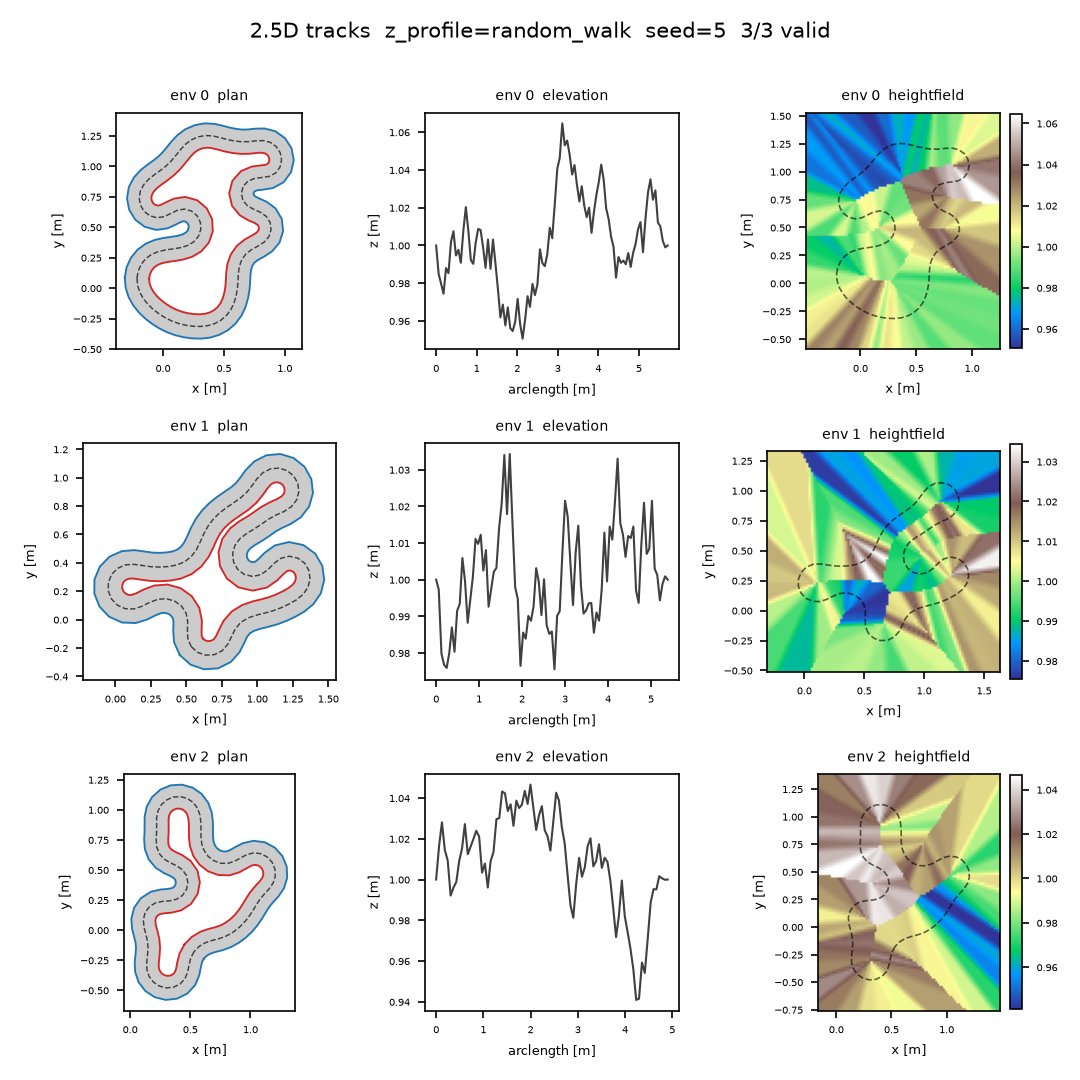
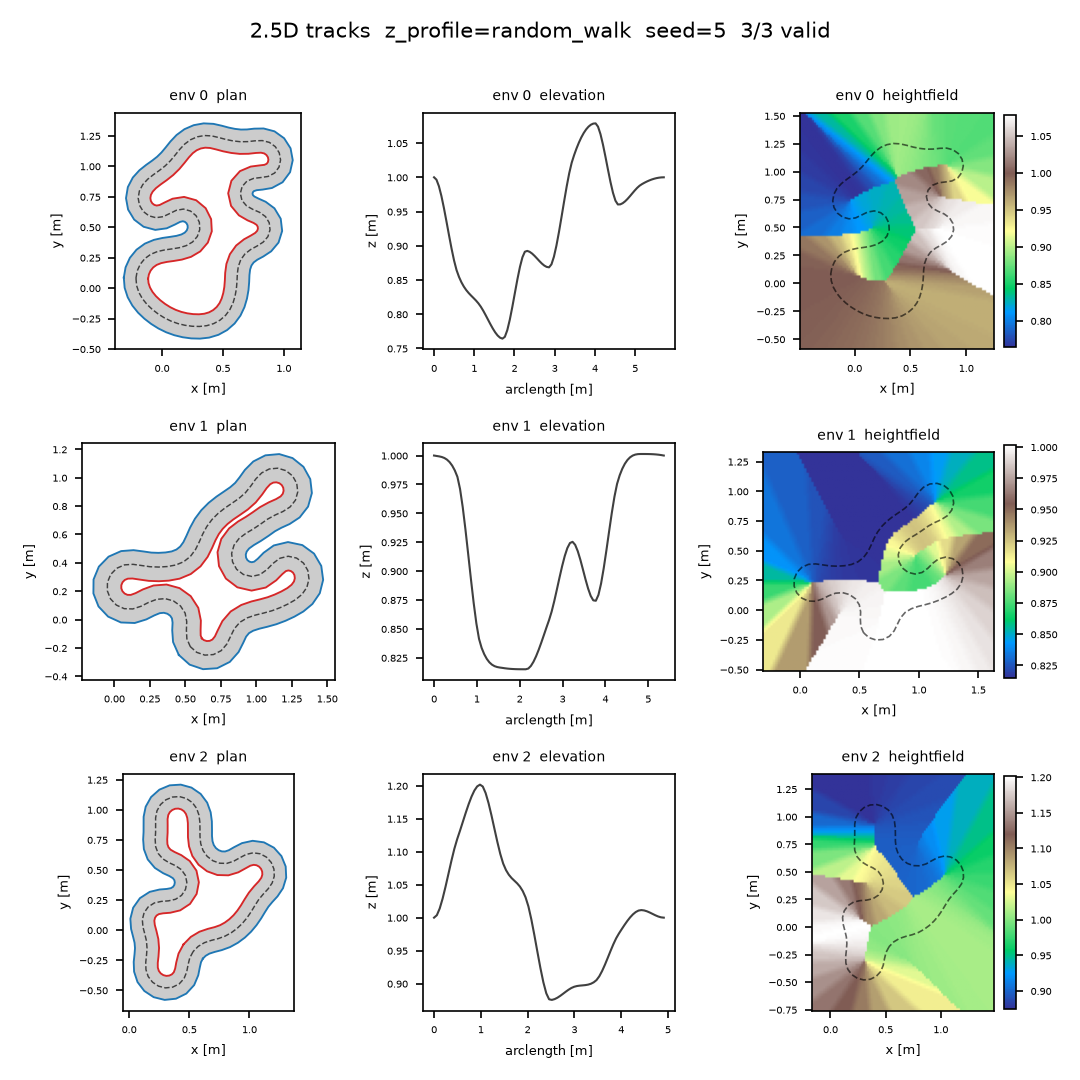
docs+viz: profile-comparison figure, knot smoothness guidance, re-shot hero
Add viz/plot_z_profiles.py comparing flat/uniform/random_walk/noise on the
same seeded plan-view layout, re-shoot docs/_static/tracks-25d.png now that
elevation is smooth rolling terrain instead of a per-point washboard, and
rework docs/tracks-25d.rst: purpose-first per-profile descriptions, a
z_control_points knobs-table row, a Smoothness section stating the exact
[z_min, z_max] bounds guarantee with no post-clamp, and the honest grade
caveat that z_max_step shapes the walk at the knots (now per knot interval,
not per resampled point — an intentional, user-visible change) while a
monotone-cubic segment can overshoot up to 3x its knot-to-knot secant, so
z_valid_grade is what actually gates realized per-point steepness.

Also tighten test_xpbd_solves_in_2d_elevation_applies_after's vacuity guard
(tests/test_track_3d.py): assert per-env z std on each env's real points
(sliced to count[e]) rather than the whole-batch std, which was dominated by
the zero-padding/real-elevation contrast and would still pass under constant
per-env elevation.

Claude-Session: https://claude.ai/code/session_019ABYQDYMWzWSk9H6aJ1x8p

diff --git a/viz/plot_z_profiles.py b/viz/plot_z_profiles.py
@@ -1,0 +1,173 @@
+#!/usr/bin/env python3
+"""Compare the four ``z_profile`` altitude models on the SAME track layout.
+
+Generates one track batch per profile (``flat``, ``uniform``, ``random_walk``,
+``noise``) with an identical seed, identical Z knobs, and identical plan-view
+layout (the XY relaxation runs before elevation exists, so it is bit-identical
+across profiles — see :doc:`/tracks-25d`'s "Why 2.5D" section). Draws a
+2-column grid, one row per profile:
+
+- plan view: outer/inner borders for context, centerline colored by z.
+- elevation profile: arclength vs. centerline z.
+
+Headless (Agg backend); PNG lands in ``viz/out/`` by default. Run directly:
+
+    .venv/bin/python -m viz.plot_z_profiles
+    .venv/bin/python -m viz.plot_z_profiles --envs 3 --seed 5
+    .venv/bin/python -m viz.plot_z_profiles --out docs/_static/z-profiles.png
+"""
+from __future__ import annotations
+
+import argparse
+import os
+import sys
+
+# Make the flat "track_gen" package importable regardless of cwd (this file lives at
+# <pkg_parent>/viz/plot_z_profiles.py, so the package parent is two levels up).
+_PKG_PARENT = os.path.dirname(os.path.dirname(os.path.abspath(__file__)))
+if _PKG_PARENT not in sys.path:
+    sys.path.insert(0, _PKG_PARENT)
+
+import matplotlib
+
+matplotlib.use("Agg")  # headless; must precede the pyplot import
+
+import matplotlib.pyplot as plt
+import numpy as np
+import torch
+
+import warp as wp
+
+from track_gen import PerEnvSeededRNG
+from track_gen._src.track_generator import TrackGenerator
+from track_gen._src.types import TrackGenConfig
+
+OUT_DIR = os.path.join(os.path.dirname(os.path.abspath(__file__)), "out")
+
+# Common Z knobs shared by every profile row; each profile only reads the
+# subset of these it actually uses (see docs/tracks-25d.rst's knobs table).
+Z_BASE = 1.0
+Z_MIN = 0.5
+Z_MAX = 1.5
+Z_MAX_STEP = 0.3
+Z_NOISE_AMPLITUDE = 0.4
+Z_CONTROL_POINTS = 10
+
+PROFILES = [
+    ("flat", "z_base=1.0"),
+    ("uniform", "z_min=0.5, z_max=1.5"),
+    ("random_walk", "z_max_step=0.3"),
+    ("noise", "z_noise_amplitude=0.4"),
+]
+
+
+def make_rng(num_envs: int, seed: int, device: str) -> PerEnvSeededRNG:
+    """Per-env seeded RNG, mirroring plot_tracks_3d.py."""
+    wp.init()
+    seeds = (torch.arange(num_envs, dtype=torch.int32) + seed).to(device)
+    ids = torch.arange(num_envs, dtype=torch.int32).to(device)
+    wp_seeds = wp.from_torch(seeds, dtype=wp.int32)
+    wp_ids = wp.from_torch(ids, dtype=wp.int32)
+    rng = PerEnvSeededRNG(seeds=wp_seeds, num_envs=num_envs, device=device)
+    rng.set_seeds_warp(wp_seeds, ids=wp_ids)
+    return rng
+
+
+def draw_row(ax_plan, ax_elev, *, profile: str, knobs: str, outer, center,
+             inner, arclen, vmin: float, vmax: float) -> None:
+    """Draw one profile's plan view (colored by z) and elevation profile.
+
+    ``outer``/``center``/``inner``/``arclen`` are already-sliced ``[m, 3]`` /
+    ``[m]`` numpy arrays for this env (real points only).
+    """
+    ox, oy = np.append(outer[:, 0], outer[0, 0]), np.append(outer[:, 1], outer[0, 1])
+    cx, cy, cz = center[:, 0], center[:, 1], center[:, 2]
+    cxl, cyl, czl = np.append(cx, cx[0]), np.append(cy, cy[0]), np.append(cz, cz[0])
+    ix, iy = np.append(inner[:, 0], inner[0, 0]), np.append(inner[:, 1], inner[0, 1])
+
+    # Plan view: outer/inner borders for context, centerline colored by z.
+    ax_plan.plot(ox, oy, color="0.75", lw=0.7, zorder=1)
+    ax_plan.plot(ix, iy, color="0.75", lw=0.7, zorder=1)
+    sc = ax_plan.scatter(cxl, cyl, c=czl, cmap="terrain", vmin=vmin, vmax=vmax,
+                         s=5, zorder=3)
+    ax_plan.set_aspect("equal")
+    ax_plan.set_xlabel("x [m]", fontsize=6)
+    ax_plan.set_ylabel("y [m]", fontsize=6)
+    ax_plan.tick_params(labelsize=5)
+    ax_plan.set_title(f"{profile}  ({knobs})  plan", fontsize=6.5)
+    cb = plt.colorbar(sc, ax=ax_plan, fraction=0.046, pad=0.04)
+    cb.ax.tick_params(labelsize=5)
+    cb.set_label("z [m]", fontsize=6)
+
+    # Elevation profile: arclength vs centerline z.
+    s = np.append(arclen, arclen[-1] + np.linalg.norm(center[0] - center[-1]))
+    ax_elev.plot(s, czl, color="0.25", lw=1.0, zorder=2)
+    ax_elev.set_ylim(vmin - 0.05 * (vmax - vmin), vmax + 0.05 * (vmax - vmin))
+    ax_elev.set_xlabel("arclength [m]", fontsize=6)
+    ax_elev.set_ylabel("z [m]", fontsize=6)
+    ax_elev.tick_params(labelsize=5)
+    ax_elev.set_title(f"{profile}  ({knobs})  elevation", fontsize=6.5)
+
+
+def render(envs=6, seed=0, out=None, dpi=150, cell_in=2.6, device="cpu"):
+    """Generate one track batch per profile on ``device`` and save the grid PNG."""
+    os.makedirs(OUT_DIR, exist_ok=True)
+    if out is None:
+        out = os.path.join(OUT_DIR, "z_profiles.png")
+
+    fig, axes = plt.subplots(len(PROFILES), 2,
+                             figsize=(2 * cell_in, len(PROFILES) * cell_in),
+                             squeeze=False)
+
+    first_env = None
+    for row, (profile, knobs) in enumerate(PROFILES):
+        config = TrackGenConfig(device=device, num_envs=envs, z_profile=profile,
+                                z_base=Z_BASE, z_min=Z_MIN, z_max=Z_MAX,
+                                z_max_step=Z_MAX_STEP,
+                                z_noise_amplitude=Z_NOISE_AMPLITUDE,
+                                z_control_points=Z_CONTROL_POINTS)
+        rng = make_rng(envs, seed=seed, device=device)
+        track = TrackGenerator(config, rng).generate()
+
+        valid_np = wp.to_torch(track.valid).bool().cpu().numpy()
+        valid_e = np.flatnonzero(valid_np)
+        if valid_e.size == 0:
+            raise RuntimeError(
+                f"no valid tracks generated for profile={profile!r}; "
+                "try a different --seed or --envs")
+        # Same seed + envs => XPBD layout (and validity) is identical across
+        # profiles (elevation is applied strictly after relaxation), so every
+        # row picks the SAME env index for a genuine like-for-like comparison.
+        e = int(valid_e[0]) if first_env is None else first_env
+        first_env = e
+
+        n_max = track.center.shape[0] // envs
+        m = int(wp.to_torch(track.count).cpu().numpy()[e])
+        outer_np = wp.to_torch(track.outer).view(envs, n_max, 3).cpu().numpy()[e, :m]
+        center_np = wp.to_torch(track.center).view(envs, n_max, 3).cpu().numpy()[e, :m]
+        inner_np = wp.to_torch(track.inner).view(envs, n_max, 3).cpu().numpy()[e, :m]
+        arclen_np = wp.to_torch(track.arclen).view(envs, n_max).cpu().numpy()[e, :m]
+
+        draw_row(axes[row, 0], axes[row, 1], profile=profile, knobs=knobs,
+                 outer=outer_np, center=center_np, inner=inner_np,
+                 arclen=arclen_np, vmin=Z_MIN, vmax=Z_MAX)
+
+    fig.suptitle(f"Altitude profiles  env={first_env}  seed={seed}", fontsize=10)
+    fig.tight_layout(rect=(0, 0, 1, 0.98))
+    fig.savefig(out, dpi=dpi)
+    plt.close(fig)
+    print(f"wrote {out}")
+    return out
+
+
+if __name__ == "__main__":
+    ap = argparse.ArgumentParser()
+    ap.add_argument("--envs", type=int, default=6,
+                    help="candidate envs to generate per profile (first valid one is plotted)")
+    ap.add_argument("--seed", type=int, default=0)
+    ap.add_argument("--out", default=None, help="output PNG path (default viz/out/z_profiles.png)")
+    ap.add_argument("--dpi", type=int, default=150)
+    ap.add_argument("--cuda", action="store_true")
+    a = ap.parse_args()
+    render(envs=a.envs, seed=a.seed, out=a.out, dpi=a.dpi,
+           device="cuda" if a.cuda else "cpu")

diff --git a/tests/test_track_3d.py b/tests/test_track_3d.py
@@ -203,7 +203,13 @@ def test_xpbd_solves_in_2d_elevation_applies_after():
         a = getattr(flat, name).numpy()[:, :2]
         b = getattr(hilly, name).numpy()[:, :2]
         np.testing.assert_array_equal(a, b, err_msg=f"{name} xy moved")
-    assert getattr(hilly, "center").numpy()[:, 2].std() > 0.0  # z really varies
+    n_max = hilly.center.shape[0] // E
+    hilly_center = hilly.center.numpy()
+    hilly_count = hilly.count.numpy()
+    for e in np.flatnonzero(hilly.valid.numpy()):
+        m = int(hilly_count[e])
+        z_e = hilly_center[e * n_max:e * n_max + m, 2]
+        assert z_e.std() > 0.0, f"env {e} z is constant"  # z really varies
 
 
 def test_no_overshoot_beyond_extremes():

diff --git a/docs/tracks-25d.rst b/docs/tracks-25d.rst
@@ -52,37 +52,106 @@ inert for the profiles they do not apply to.
      - Altitude model
      - Knobs
    * - ``"flat"`` (default)
-     - Every real point sits at ``z_base``. With the default ``z_base=0`` this is
-       the old planar track.
+     - Planar. Every real point sits at ``z_base``; with the default
+       ``z_base=0`` this is the old planar track.
      - ``z_base``
    * - ``"uniform"``
-     - Each point's altitude is drawn i.i.d. uniform in ``[z_min, z_max]``.
-     - ``z_min``, ``z_max``
+     - Independent hill heights: ``z_control_points`` arc-spaced knots each
+       draw their own i.i.d. uniform altitude in ``[z_min, z_max]``, and the
+       points between knots are interpolated (see *Smoothness* below).
+     - ``z_min``, ``z_max``, ``z_control_points``
    * - ``"random_walk"``
-     - A Brownian-bridge walk clamped to ``[z_min, z_max]``, closed back to its
-       start so the loop is continuous. Each step is capped by a **grade** — the
-       maximum ``|dz|`` per unit of plan-view arc length — so altitude changes
-       stay proportional to horizontal travel.
-     - ``z_base`` (walk origin), ``z_min``, ``z_max``, ``z_max_step`` (grade cap)
+     - Correlated rolling terrain: a grade-capped walk over the
+       ``z_control_points`` knots, clamped to ``[z_min, z_max]`` and closed
+       back to its start so the loop is continuous (Brownian-bridge drift
+       removal). Each knot-to-knot step is capped by a **grade** — the
+       maximum ``|dz|`` per unit of plan-view arc length between knots — so
+       altitude changes stay proportional to horizontal travel.
+     - ``z_base`` (walk origin), ``z_min``, ``z_max``, ``z_max_step`` (grade
+       cap), ``z_control_points``
    * - ``"noise"``
-     - Periodic harmonic noise oscillating around ``z_base``: a sum of
-       ``z_noise_harmonics`` sinusoids of total amplitude ``z_noise_amplitude``,
-       clamped to ``[z_min, z_max]``.
+     - Smooth periodic terrain with harmonic control: decided per-point (not
+       knot-based) as a sum of ``z_noise_harmonics`` sinusoids of total
+       amplitude ``z_noise_amplitude`` oscillating around ``z_base``, clamped
+       to ``[z_min, z_max]``.
      - ``z_base``, ``z_noise_amplitude``, ``z_noise_harmonics`` (default 3),
        ``z_min``, ``z_max``
+   * - ``z_control_points``
+     - Number of arc-spaced altitude control knots (default 10, must be
+       ≥ 3). Applies to ``uniform`` and ``random_walk``; ``flat`` is constant
+       and ``noise`` uses ``z_noise_harmonics`` for its frequency.
+     - —
 
 .. note::
 
-   ``z_max_step`` is a **grade**, not an absolute step: it bounds ``|dz|`` per
-   unit plan-view arc length between adjacent resampled points, so widely spaced
-   points may still differ in altitude by more than ``z_max_step``.
+   ``z_max_step`` is a **grade**, not an absolute step. Under the knot stage
+   (``uniform``, ``random_walk``) it bounds ``|dz|`` per unit plan-view arc
+   length **between adjacent knots** (``ds = perimeter / z_control_points``),
+   not between adjacent resampled points — so, for a fixed ``z_max_step``, the
+   walk can now swing over a larger total altitude range than it could when
+   the cap applied point-to-point. This is an intentional, user-visible
+   change from the previous per-point grade cap: it is what fixes the
+   washboard texture described below, at the cost of ``z_max_step`` alone no
+   longer bounding how much altitude changes over any one resampled segment.
 
 A profiled batch can also be rejected outright: ``z_valid_grade`` is the maximum
 allowed ``|dz|/ds`` grade between adjacent points, with ``ds`` measured along the
 **plan-view** (XY) arc length — not the 3D lifted length. ``z_valid_grade = 0``
 (the default) disables the check; any steeper adjacent pair marks the whole env
 invalid, on top of the unchanged 2D validity gate (turning number, thickness,
-width floor, optional border self-intersection).
+width floor, optional border self-intersection). Because a monotone-cubic
+segment can overshoot its secant slope by up to 3× (see *Smoothness* below),
+``z_max_step`` alone does not bound the realized per-point grade on ``uniform``
+or ``random_walk`` — ``z_valid_grade`` is what actually gates realized
+steepness, and should be set (non-zero) whenever a hard grade limit matters.
+
+Smoothness
+----------
+
+For ``uniform`` and ``random_walk``, altitude is decided at only
+``z_control_points`` arc-spaced knots per env and interpolated between them
+with a periodic monotone cubic (Fritsch-Carlson-limited tangents, wrapping at
+the seam so the loop closes with no discontinuity). Two consequences follow
+directly:
+
+- **Exact bounds, no post-clamp.** Each knot's altitude is already clamped to
+  ``[z_min, z_max]`` (it comes from the same per-point profile kernel, run
+  over the knots instead of the resampled points), and the monotone
+  construction guarantees the interpolant never leaves the interval spanned
+  by its two bracketing knots. So the whole curve stays within
+  ``[z_min, z_max]`` exactly, with no additional clamping step required or
+  applied.
+- **Resolution and bumpiness are decoupled.** Raising the track's resample
+  resolution samples the SAME underlying road more finely; it does not add
+  new altitude decisions or introduce new bumps, because the road between
+  knots is a fixed cubic, not a fresh per-point draw. This is what eliminates
+  the washboard texture that a per-point ``uniform``/``random_walk`` draw
+  produces at high resample density — the previous per-point grade cap capped
+  local jitter but never removed it.
+
+The one caveat: monotonicity bounds the interpolant's *range*, not its local
+*slope*. A monotone-cubic segment's realized grade can reach up to 3× its
+knot-to-knot secant slope (the same Fritsch-Carlson limiter that kills
+overshoot also sets that bound), so ``z_max_step`` — which only shapes the
+walk *at the knots* — does not bound the steepest per-point grade actually
+realized between them. If a hard steepness limit matters for your use case,
+set ``z_valid_grade`` (non-zero) rather than relying on ``z_max_step`` alone;
+it is checked against the realized per-point grade after interpolation, on
+every adjacent pair.
+
+.. figure:: _static/z-profiles.png
+   :alt: The four z_profile altitude models on the same track layout, each as
+         a plan view colored by z and an elevation profile
+   :align: center
+
+   The four altitude profiles on the SAME plan-view layout and seed, rendered
+   by ``viz/plot_z_profiles.py`` (``z_base=1.0``, ``z_min=0.5``, ``z_max=1.5``,
+   ``z_max_step=0.3``, ``z_noise_amplitude=0.4``, ``z_control_points=10``).
+   ``flat`` is constant; ``uniform``, ``random_walk``, and ``noise`` are all
+   smooth rolling curves (never jittery), but visibly distinct in character —
+   independent knot-to-knot swings, a correlated single-basin walk, and
+   harmonic periodicity respectively. Regenerate with
+   ``python viz/plot_z_profiles.py --out docs/_static/z-profiles.png --seed 5``.
 
 Level cross-sections, and why plan-view collision stays valid
 ---------------------------------------------------------------